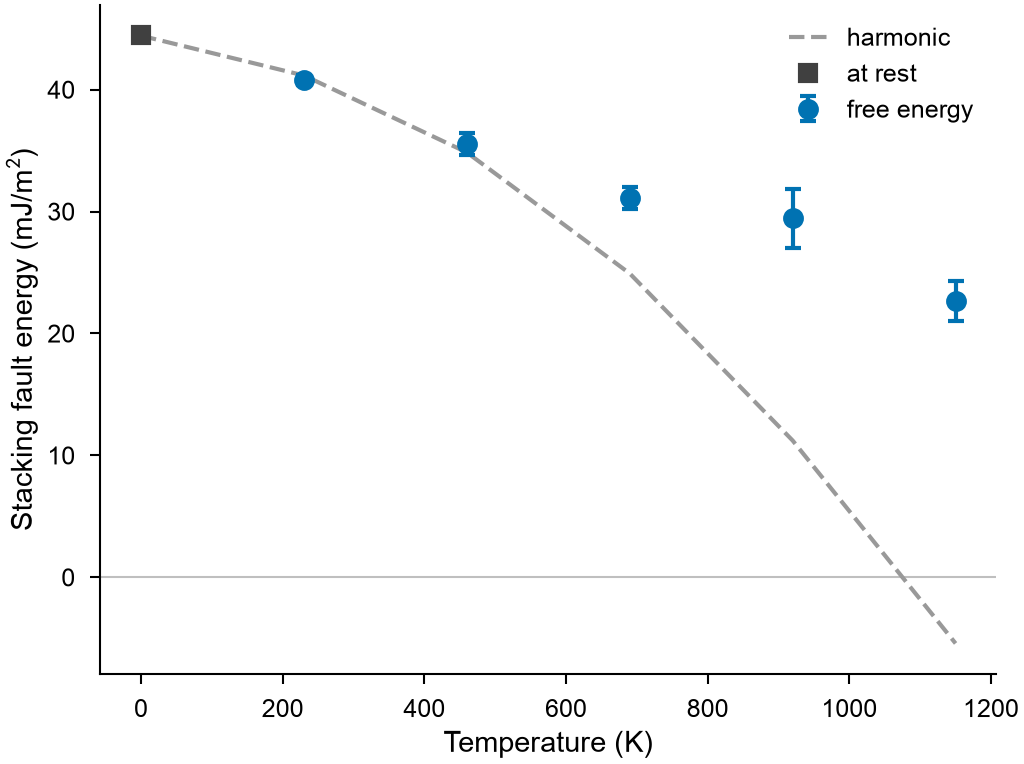
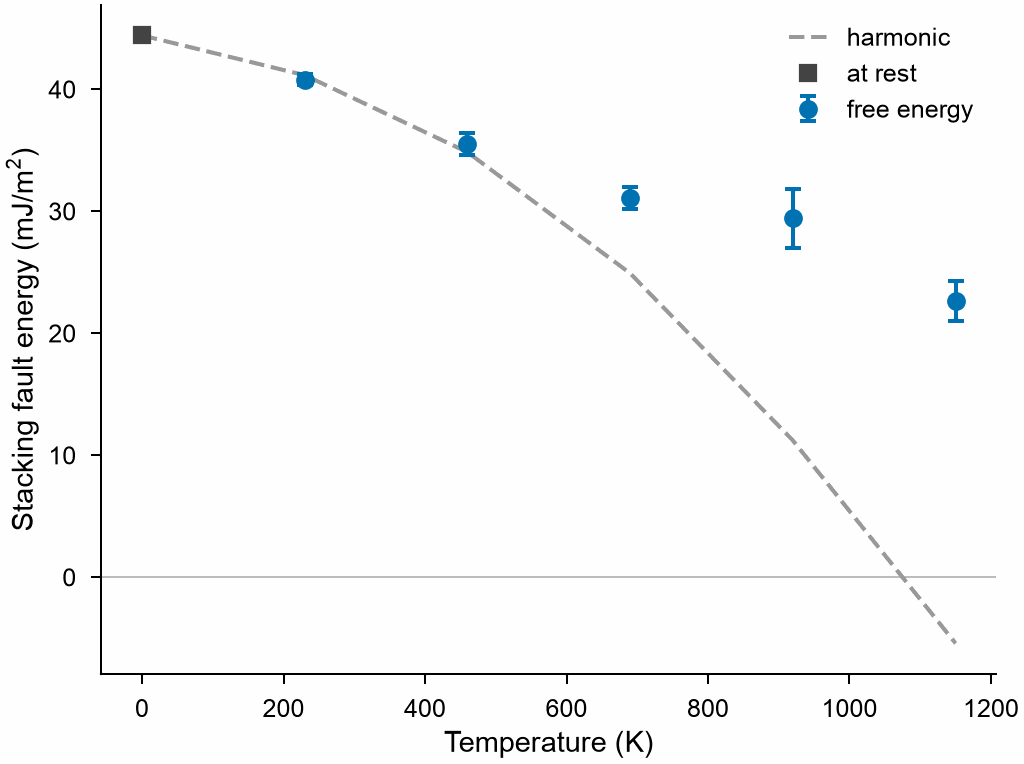
Stacking faults at finite temperature: the code of the harmonic curve and of the fault at rest, so that the figure is that of the code

diff --git a/docs/user-guide/simulation/stacking-fault-temperature.md b/docs/user-guide/simulation/stacking-fault-temperature.md
@@ -41,6 +41,45 @@ result = stacking_fault_free_energy(
 result.energy, result.error  # J/m²
 ```
 
+The harmonic part of the same difference, for comparison: classical atoms in the
+[phonons](phonons.md) of a perfect and a faulted cell of 24 (111) layers, each at the
+volume per atom of the crystal at that temperature. The free energy of the vibrations
+of classical atoms is $k_BT\sum\ln(h\nu/k_BT)$ over the modes, so the difference of
+two cells of as many atoms is $k_BT$ times the difference of their sums of $\ln\nu$,
+here averaged over a mesh of wave vectors that misses Γ. At 0 K only the static part is
+left, the fault at rest:
+
+<!-- skip-test -->
+```python
+from mdapy import units
+from mdapy.build import slip
+from mdapy.lattice_dynamics import phonons
+
+grid = (np.arange(10) + 0.5) / 10
+mesh = [[x, y, z] for x in grid for y in grid for z in (0.25, 0.75)]
+harmonic = []
+for temperature, volume in zip([0, *result.temperatures], [a**3 / 4, *result.volume]):
+    side = (4 * volume) ** (1 / 3)  # the lattice constant at this temperature
+    perfect = build_crystal(
+        "fcc",
+        side,
+        elements="Cu",
+        orientation=[(1, 1, -2), (-1, 1, 0), (1, 1, 1)],
+        repeat=(1, 1, 8),
+    )
+    faulted = slip(perfect, [side * np.sqrt(6) / 6, 0, 0])  # the box tilts with it
+    energy, logs = [], []
+    for cell in (perfect, faulted):
+        cell = minimize(cell, potential, max_force=1e-5).system
+        frequencies = phonons(cell, potential, supercell=(4, 7, 1)).frequencies(mesh)
+        energy.append(potential.compute(cell).energy)
+        logs.append(np.log(frequencies).sum(axis=1).mean())
+    kt = units.BOLTZMANN * temperature
+    area = perfect.box.matrix[0, 0] * perfect.box.matrix[1, 1]
+    difference = energy[1] - energy[0] + kt * (logs[1] - logs[0])
+    harmonic.append(difference / area * units.EV_PER_A2_TO_J_PER_M2)
+```
+
 The fault gets cheaper with the temperature:
 
 <!-- skip-test -->
@@ -49,20 +88,30 @@ from mdapy.visualization import plot
 
 with plot.style():
     fig, ax = plot.figure("single")
+    every = [0, *result.temperatures]
+    ax.plot(every, 1e3 * np.array(harmonic), "--", color="0.6", label="harmonic")
+    ax.plot(0, 1e3 * harmonic[0], "s", color="0.25", label="at rest")
     ax.errorbar(
-        result.temperatures, 1e3 * result.energy, 1e3 * result.error, fmt="o", capsize=2
+        result.temperatures,
+        1e3 * result.energy,
+        1e3 * result.error,
+        fmt="o",
+        capsize=2,
+        label="free energy",
     )
+    ax.axhline(0.0, color="0.75", lw=0.5, zorder=0)
     ax.set_xlabel("Temperature (K)")
     ax.set_ylabel(r"Stacking fault energy (mJ/m$^2$)")
+    ax.legend()
     plot.save(fig, "images/stacking-fault-temperature", formats=("png",))
 ```
 
 ![The stacking fault energy of copper with temperature](images/stacking-fault-temperature.png)
 
 *Copper with the EAM potential of Mishin et al., 1440 atoms and a plane of 684 Å²,
-44 mJ/m² at rest. Up to about 500 K the free energy follows the harmonic part, drawn
-from the phonons of the two cells at the same volumes; above that it falls more
-slowly: 23 mJ/m² against -5 mJ/m² at 1150 K.*
+44 mJ/m² at rest. Up to about 500 K the free energy follows the harmonic part; above
+that it falls more slowly: 23 mJ/m² against -5 mJ/m² at 1150 K. The harmonic part
+leaves out the anharmonic vibrations, which the switching of the free energy takes in.*
 
 The wider the plane the smaller the error: the error of the free energy of all atoms
 grows with their square root, the free energy of the fault with the area. The error
